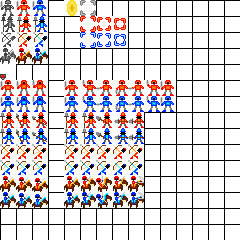
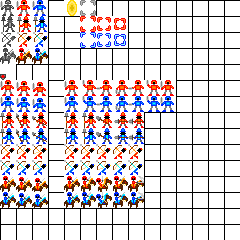
Added standign animations to the game and removed the base images

Changed region(s): [[0.0583, 0.3208, 0.2042, 0.4667]]

diff --git a/Senior Project/src/wzh/game/entity/unit/Unit.java b/Senior Project/src/wzh/game/entity/unit/Unit.java
@@ -2,6 +2,7 @@ package wzh.game.entity.unit;
 
 import java.util.ArrayList;
 
+import org.newdawn.slick.Animation;
 import org.newdawn.slick.Color;
 import org.newdawn.slick.GameContainer;
 import org.newdawn.slick.Graphics;
@@ -43,6 +44,10 @@ public abstract class Unit extends Entity {
 	protected boolean displayMoves;
 	protected boolean displayAttacks;
 	
+	protected SpriteSheet spriteSheet;
+	protected Animation standingAnimation;
+	protected Animation attackAnimation;
+	
 	public Unit(int x, int y, Image img, Grid g, int faction) {
 		super(x,y,img,g);
 		this.faction = faction;
@@ -61,10 +66,15 @@ public abstract class Unit extends Entity {
 			premoveMenu.update(gc, game, delta);
 		else if(postmoveMenu!=null)
 			postmoveMenu.update(gc, game, delta);
+		
 	}
 	public void render(GameContainer gc, StateBasedGame game, Graphics g) throws SlickException {
 		//Sprite
-		super.render(gc, game, g);
+		if(active)
+			standingAnimation.draw(getScreenX(), getScreenY());
+		
+		else
+			super.render(gc, game, g);
 		//Move and Attack locations
 		if(displayMoves) {
 			g.setColor(new Color(0,0,1,.3f));

diff --git a/Senior Project/src/wzh/game/entity/unit/Swordsman.java b/Senior Project/src/wzh/game/entity/unit/Swordsman.java
@@ -1,5 +1,6 @@
 package wzh.game.entity.unit;
 
+import org.newdawn.slick.Animation;
 import org.newdawn.slick.SlickException;
 import org.newdawn.slick.SpriteSheet;
 
@@ -14,15 +15,22 @@ public class Swordsman extends Unit{
 		SpriteSheet ss;
 		try {
 			ss = new SpriteSheet("Unitz.png",16,16);
-			if(faction==1)
+			if(faction==1){
 				colored = ss.getSubImage(2, 0);
-			else
+				standingAnimation=new Animation(ss,0,6,2,6,true,500,true);
+				standingAnimation.setPingPong(true);
+			}
+			else{
 				colored = ss.getSubImage(1, 0);
+				standingAnimation=new Animation(ss,0,5,2,5,true,500,true);
+				standingAnimation.setPingPong(true);
+			}
 			sprite = colored;
 			gray = ss.getSubImage(0,0);
+			
 		} catch (SlickException e) {
 			e.printStackTrace();
-		}
+		}		
 	}
 	
 	@Override 

diff --git a/Senior Project/src/wzh/game/entity/unit/Spearman.java b/Senior Project/src/wzh/game/entity/unit/Spearman.java
@@ -1,5 +1,6 @@
 package wzh.game.entity.unit;
 
+import org.newdawn.slick.Animation;
 import org.newdawn.slick.SlickException;
 import org.newdawn.slick.SpriteSheet;
 
@@ -14,10 +15,16 @@ public class Spearman extends Unit {
 		SpriteSheet ss;
 		try {
 			ss = new SpriteSheet("Unitz.png",16,16);
-			if(faction==1)
+			if(faction==1){
 				colored = ss.getSubImage(2, 1);
-			else
-				colored = ss.getSubImage(1, 1);
+				standingAnimation=new Animation(ss,0,8,2,8,true,500,true);
+				standingAnimation.setPingPong(true);
+			}
+			else{
+				//colored = ss.getSubImage(1, 1);
+				standingAnimation=new Animation(ss,0,7,2,7,true,500,true);
+				standingAnimation.setPingPong(true);
+			}
 			sprite = colored;
 			gray = ss.getSubImage(0, 1);
 		} catch (SlickException e) {

diff --git a/Senior Project/src/wzh/game/entity/unit/Archer.java b/Senior Project/src/wzh/game/entity/unit/Archer.java
@@ -2,6 +2,7 @@ package wzh.game.entity.unit;
 
 import java.util.ArrayList;
 
+import org.newdawn.slick.Animation;
 import org.newdawn.slick.SlickException;
 import org.newdawn.slick.SpriteSheet;
 
@@ -18,10 +19,16 @@ public class Archer extends Unit {
 		SpriteSheet ss;
 		try {
 			ss = new SpriteSheet("Unitz.png",16,16);
-			if(faction==1)
+			if(faction==1){
 				colored = ss.getSubImage(2, 2);
-			else
+				standingAnimation=new Animation(ss,0,10,2,10,true,500,true);
+				standingAnimation.setPingPong(true);
+			}
+			else{
 				colored = ss.getSubImage(1, 2);
+				standingAnimation=new Animation(ss,0,9,2,9,true,500,true);
+				standingAnimation.setPingPong(true);
+			}
 			sprite = colored;
 			gray = ss.getSubImage(0, 2);
 		} catch (SlickException e) {

diff --git a/Senior Project/src/wzh/game/entity/unit/Horseman.java b/Senior Project/src/wzh/game/entity/unit/Horseman.java
@@ -1,5 +1,6 @@
 package wzh.game.entity.unit;
 
+import org.newdawn.slick.Animation;
 import org.newdawn.slick.SlickException;
 import org.newdawn.slick.SpriteSheet;
 
@@ -15,10 +16,16 @@ public class Horseman extends Unit {
 		SpriteSheet ss;
 		try {
 			ss = new SpriteSheet("Unitz.png",16,16);
-			if(faction==1)
+			if(faction==1){
 				colored = ss.getSubImage(2, 3);
-			else
+				standingAnimation=new Animation(ss,0,12,2,12,true,500,true);
+				standingAnimation.setPingPong(true);
+			}
+			else{
 				colored = ss.getSubImage(1, 3);
+				standingAnimation=new Animation(ss,0,11,2,11,true,500,true);
+				standingAnimation.setPingPong(true);
+			}
 			sprite = colored;
 			gray = ss.getSubImage(0, 3);
 		} catch (SlickException e) {
